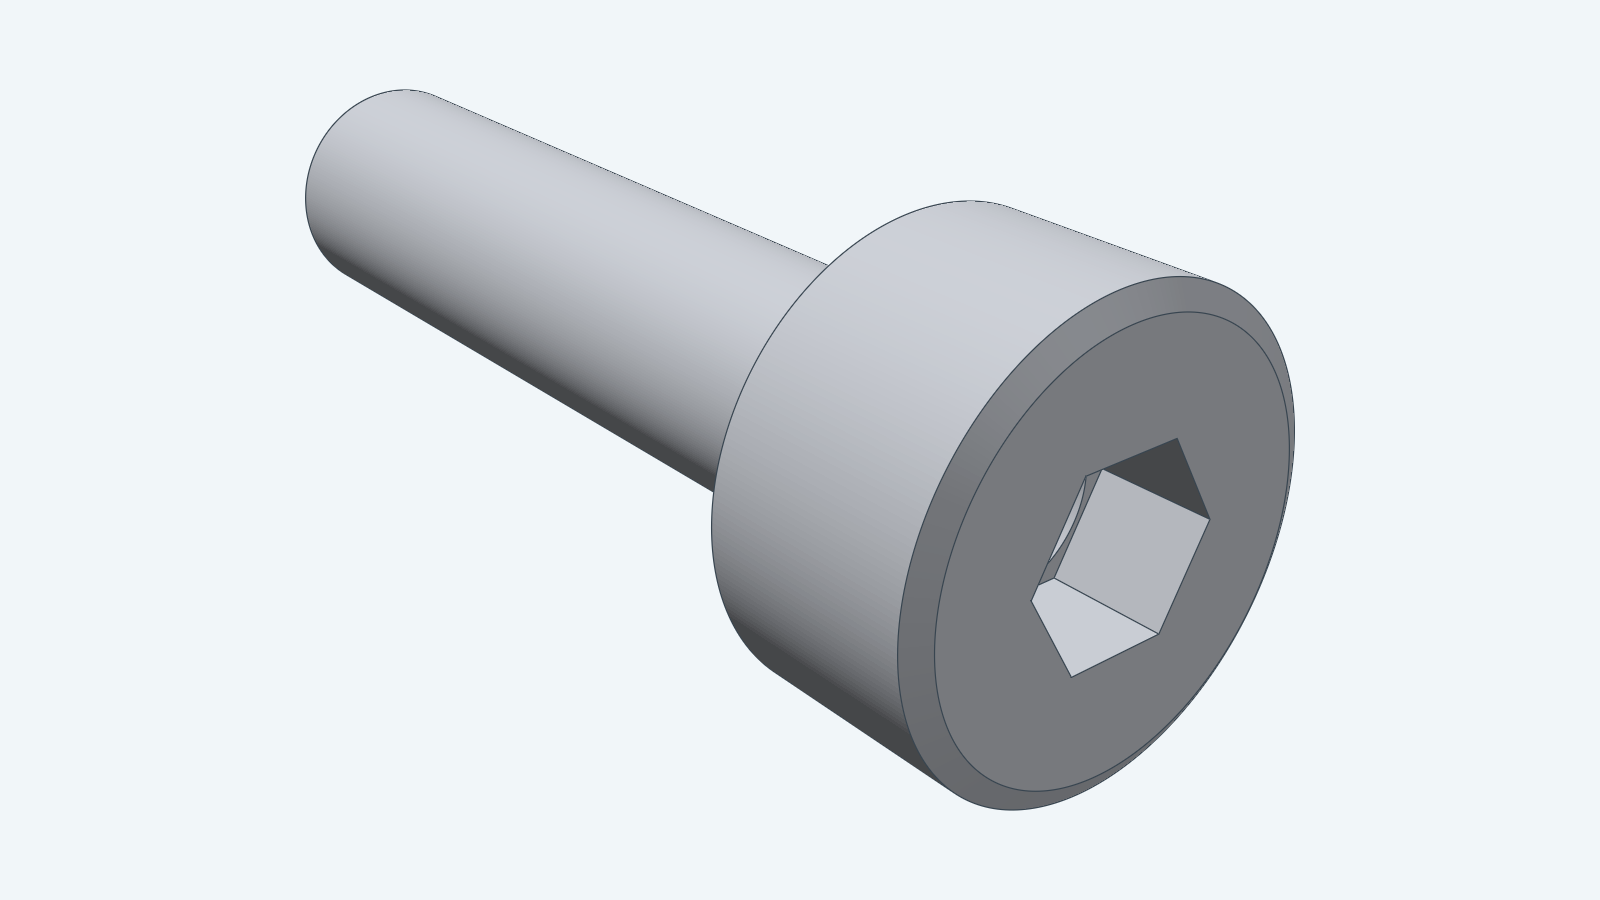
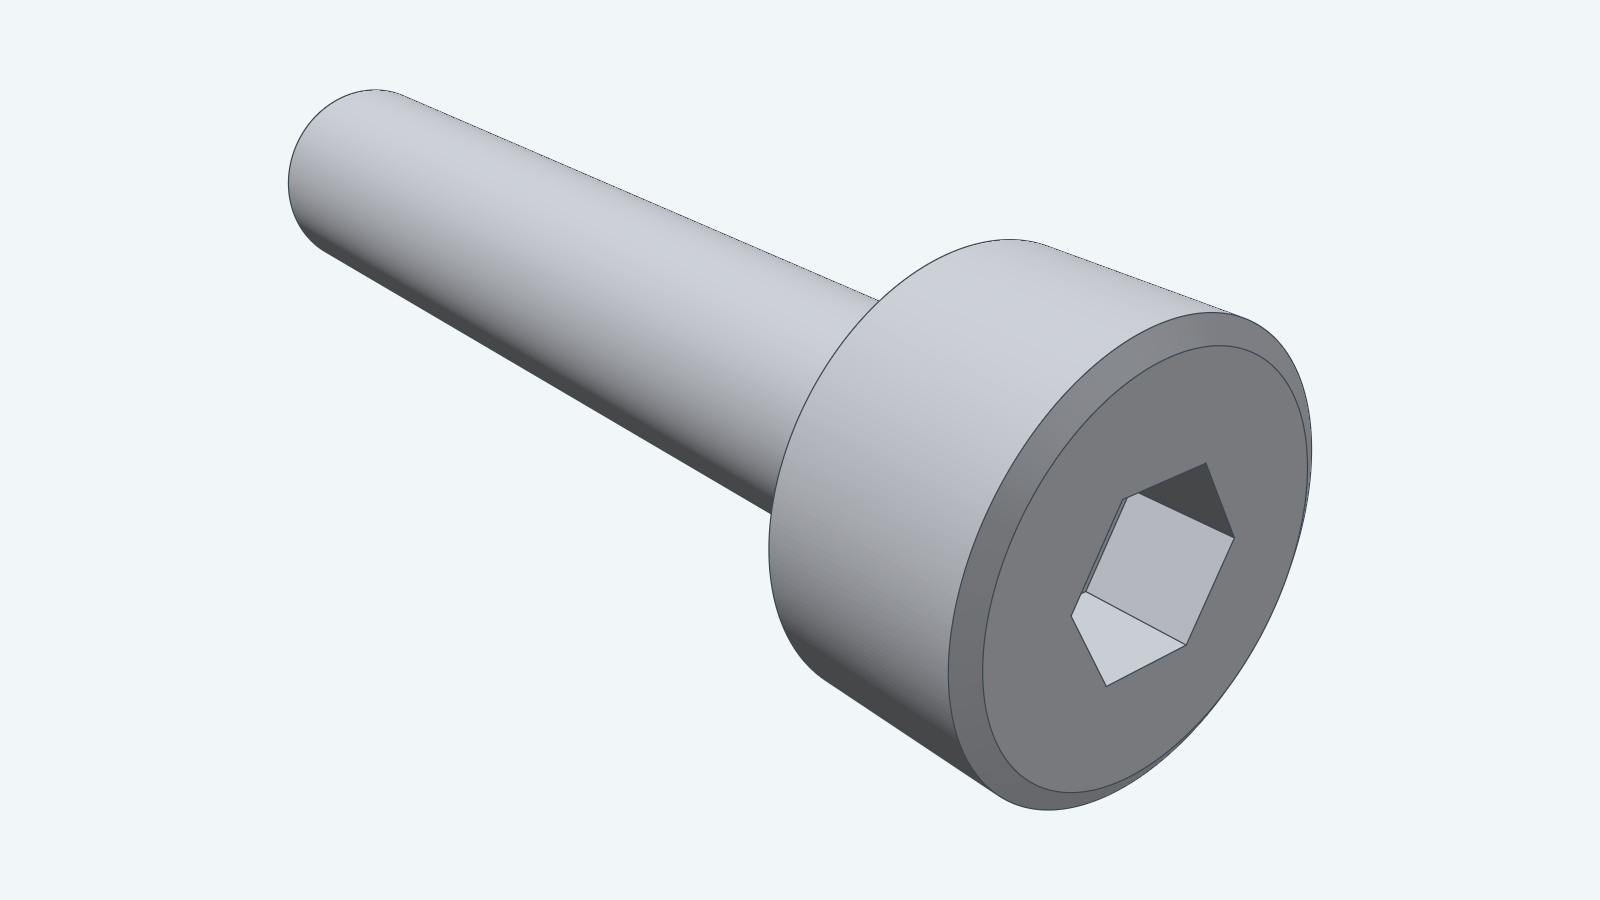
limit M2 bolt to standard lengths and add views

Changed region(s): [[0.1562, 0.0933, 0.8438, 0.9022], [0.2812, 0.1244, 0.4062, 0.2178]]

diff --git a/tools/render/m2bolt.go b/tools/render/m2bolt.go
@@ -3,6 +3,7 @@ package main
 import (
 	"context"
 	"fmt"
+	"path/filepath"
 
 	"github.com/lestrrat-3d/decad"
 	"github.com/lestrrat-3d/decad-gallery/models/m2bolt"
@@ -11,26 +12,73 @@ import (
 	"github.com/lestrrat-3d/units"
 )
 
-// m2BoltHero lays the default M2x8 bolt on its side, head toward the camera, so the hex socket shows.
-func m2BoltHero(ctx context.Context) (solidlens.Scene, error) {
-	// The frame maps the bolt's +Z, from underside to head, to world +X.
-	frame, err := r3.NewFrame(r3.Vec{}, r3.Vec{Y: 1}, r3.Vec{Z: 1})
-	if err != nil {
-		return solidlens.Scene{}, fmt.Errorf("create bolt frame: %w", err)
+// m2BoltPitch is the spacing between bolts in the length comparison.
+const m2BoltPitch = 6.0
+
+var m2BoltCameras = map[string]solidlens.Camera{
+	"hero":      {Position: solidlens.Vec{X: 9, Y: -9, Z: 7}, Target: solidlens.Vec{X: -2}, Up: solidlens.Vec{Z: 1}, FOV: 35},
+	"head":      {Position: solidlens.Vec{X: 30, Y: -8, Z: 6}, Target: solidlens.Vec{}, Up: solidlens.Vec{Z: 1}, FOV: 30},
+	"side":      {Position: solidlens.Vec{X: -4, Y: -40, Z: 2}, Target: solidlens.Vec{X: -4}, Up: solidlens.Vec{Z: 1}, FOV: 20},
+	"underside": {Position: solidlens.Vec{X: -22, Y: -14, Z: -10}, Target: solidlens.Vec{X: -2}, Up: solidlens.Vec{Z: 1}, FOV: 35},
+	"lengths":   {Position: solidlens.Vec{X: -6, Y: 8, Z: 45}, Target: solidlens.Vec{X: -6, Y: 12}, Up: solidlens.Vec{Y: 1}, FOV: 30},
+}
+
+func m2BoltHero(ctx context.Context) (solidlens.Scene, error) { return m2BoltView(ctx, "hero") }
+
+func m2BoltViewScene(name string) func(context.Context) (solidlens.Scene, error) {
+	return func(ctx context.Context) (solidlens.Scene, error) { return m2BoltView(ctx, name) }
+}
+
+// m2BoltView builds one view. Bolts lie on their sides along X with the head toward +X.
+// Every view but "lengths" shows the default length.
+func m2BoltView(ctx context.Context, name string) (solidlens.Scene, error) {
+	lengths := []float64{m2bolt.DefaultParams().Length}
+	if name == "lengths" {
+		lengths = m2bolt.StandardLengths()
 	}
-	params := m2bolt.DefaultParams()
-	params.Placement = &frame
-	m, err := m2bolt.Build(ctx, decad.New(), params)
-	if err != nil {
-		return solidlens.Scene{}, fmt.Errorf("build M2 bolt: %w", err)
+	doc := decad.New()
+	var models []solidlens.Model
+	for i, length := range lengths {
+		// The frame maps the bolt's +Z, from underside to head, to world +X.
+		frame, err := r3.NewFrame(r3.Vec{Y: float64(i) * m2BoltPitch}, r3.Vec{Y: 1}, r3.Vec{Z: 1})
+		if err != nil {
+			return solidlens.Scene{}, fmt.Errorf("create bolt frame: %w", err)
+		}
+		m, err := m2bolt.Build(ctx, doc, m2bolt.Params{Length: length, Placement: &frame})
+		if err != nil {
+			return solidlens.Scene{}, fmt.Errorf("build M2x%g bolt: %w", length, err)
+		}
+		mesh, err := m.Body.Tessellate(ctx, units.Millimeters(.01), decad.WithVerification(decad.VerifyAll))
+		if err != nil {
+			return solidlens.Scene{}, fmt.Errorf("mesh M2x%g bolt: %w", length, err)
+		}
+		models = append(models, solidlens.Model{Mesh: mesh, Material: solidlens.Matte(solidlens.RGB(.5, .52, .56)),
+			Edges: solidlens.Edges{Enabled: true, Color: solidlens.RGB(.04, .06, .08), Width: 1.2}})
 	}
-	mesh, err := m.Body.Tessellate(ctx, units.Millimeters(.01), decad.WithVerification(decad.VerifyAll))
-	if err != nil {
-		return solidlens.Scene{}, fmt.Errorf("mesh M2 bolt: %w", err)
+	camera, ok := m2BoltCameras[name]
+	if !ok {
+		return solidlens.Scene{}, fmt.Errorf("unknown M2 bolt view %q", name)
 	}
-	models := []solidlens.Model{{Mesh: mesh, Material: solidlens.Matte(solidlens.RGB(.5, .52, .56)),
-		Edges: solidlens.Edges{Enabled: true, Color: solidlens.RGB(.04, .06, .08), Width: 1.2}}}
-	camera := solidlens.Camera{Position: solidlens.Vec{X: 9, Y: -9, Z: 7},
-		Target: solidlens.Vec{X: -2}, Up: solidlens.Vec{Z: 1}, FOV: 35}
 	return bevelScene(fitCamera(camera, models, 16.0/9, .1), models), nil
+}
+
+// renderM2BoltReadme writes the index image and every README view.
+func renderM2BoltReadme(ctx context.Context, outputDir string) error {
+	for _, shot := range []struct {
+		view, file    string
+		width, height int
+	}{
+		{"hero", "hero.png", 1600, 900}, {"hero", "index.png", 480, 270},
+		{"head", "head.png", 1600, 900}, {"side", "side.png", 1600, 900},
+		{"underside", "underside.png", 1600, 900}, {"lengths", "lengths.png", 1600, 900},
+	} {
+		scene, err := m2BoltView(ctx, shot.view)
+		if err != nil {
+			return err
+		}
+		if err := renderPNG(ctx, filepath.Join(outputDir, shot.file), scene, shot.width, shot.height); err != nil {
+			return err
+		}
+	}
+	return nil
 }

diff --git a/models/m2bolt/m2bolt_test.go b/models/m2bolt/m2bolt_test.go
@@ -65,12 +65,12 @@ func TestM2BoltDefault(t *testing.T) {
 	tol := box.Bound.Base() + 1e-8
 	require.InDelta(t, -m2bolt.HeadDiameter/2, box.Min.X, tol)
 	require.InDelta(t, m2bolt.HeadDiameter/2, box.Max.X, tol)
-	require.InDelta(t, -8, box.Min.Z, tol)
+	require.InDelta(t, -10, box.Min.Z, tol)
 	require.InDelta(t, m2bolt.HeadHeight, box.Max.Z, tol)
 
 	volume, err := m.Body.Volume()
 	require.NoError(t, err)
-	require.InDelta(t, expectedVolume(8), volume.Value.Base(), volume.Bound.Base()+0.01)
+	require.InDelta(t, expectedVolume(10), volume.Value.Base(), volume.Bound.Base()+0.01)
 
 	counts := map[decad.SurfaceKind]int{}
 	for _, face := range m.Body.Faces() {
@@ -92,7 +92,7 @@ func TestM2BoltDefault(t *testing.T) {
 }
 
 func TestM2BoltLengths(t *testing.T) {
-	for _, length := range []float64{m2bolt.MinLength, 5, 12.5, 30, m2bolt.MaxLength} {
+	for _, length := range m2bolt.StandardLengths() {
 		m, err := m2bolt.Build(t.Context(), decad.New(), m2bolt.Params{Length: length})
 		require.NoError(t, err, "length %g", length)
 		box, err := m.Body.Bounds()
@@ -110,16 +110,16 @@ func TestM2BoltPlacement(t *testing.T) {
 	doc := decad.New()
 	first, err := m2bolt.Build(t.Context(), doc, m2bolt.DefaultParams())
 	require.NoError(t, err)
-	// +Z of the bolt frame maps to world +X: the head sits at x in [10, 12] and the shank runs to x = 2.
+	// +Z of the bolt frame maps to world +X: the head sits at x in [10, 12] and the shank runs to x = 0.
 	frame, err := r3.NewFrame(r3.NewVec(10, 5, 0), r3.NewVec(0, 1, 0), r3.NewVec(0, 0, 1))
 	require.NoError(t, err)
-	placed, err := m2bolt.Build(t.Context(), doc, m2bolt.Params{Length: 8, Placement: &frame})
+	placed, err := m2bolt.Build(t.Context(), doc, m2bolt.Params{Length: 10, Placement: &frame})
 	require.NoError(t, err)
 	require.Equal(t, 2, len(doc.Bodies()))
 	box, err := placed.Body.Bounds()
 	require.NoError(t, err)
 	tol := box.Bound.Base() + 1e-8
-	require.InDelta(t, 2, box.Min.X, tol)
+	require.InDelta(t, 0, box.Min.X, tol)
 	require.InDelta(t, 12, box.Max.X, tol)
 	require.InDelta(t, 5-1.9, box.Min.Y, tol)
 	require.InDelta(t, 5+1.9, box.Max.Y, tol)
@@ -135,11 +135,12 @@ func TestM2BoltRejectsInvalidInputs(t *testing.T) {
 	}{
 		{"zero", m2bolt.Params{}},
 		{"negative", m2bolt.Params{Length: -8}},
-		{"too-short", m2bolt.Params{Length: m2bolt.MinLength - .1}},
-		{"too-long", m2bolt.Params{Length: m2bolt.MaxLength + .1}},
+		{"between-standard-lengths", m2bolt.Params{Length: 8}},
+		{"too-short", m2bolt.Params{Length: 5.9}},
+		{"too-long", m2bolt.Params{Length: 25.1}},
 		{"nan", m2bolt.Params{Length: math.NaN()}},
 		{"inf", m2bolt.Params{Length: math.Inf(1)}},
-		{"invalid-frame", m2bolt.Params{Length: 8, Placement: &r3.Frame{}}},
+		{"invalid-frame", m2bolt.Params{Length: 10, Placement: &r3.Frame{}}},
 	} {
 		t.Run(item.name, func(t *testing.T) {
 			doc := decad.New()

diff --git a/models/m2bolt/m2bolt.go b/models/m2bolt/m2bolt.go
@@ -5,6 +5,7 @@ import (
 	"context"
 	"fmt"
 	"math"
+	"slices"
 
 	"github.com/lestrrat-3d/decad"
 	"github.com/lestrrat-3d/decad-gallery/internal/sketchcheck"
@@ -39,16 +40,17 @@ const (
 	DrillPointBaseRadius = 0.7
 	// PilotDepth is how far the round pilot well runs below the socket floor before the drill point starts.
 	PilotDepth = 0.1
-	// MinLength is the shortest accepted shank length.
-	MinLength = 3.0
-	// MaxLength is the longest accepted shank length.
-	MaxLength = 100.0
 
 	// socketCutterRise is how far the socket cutter extends above the head's top face.
 	socketCutterRise = 0.5
 )
 
-// Params specifies the bolt. Length is the nominal length l in millimeters, measured from the
+// StandardLengths returns the nominal lengths in millimeters that Build accepts, in ascending order.
+func StandardLengths() []float64 {
+	return []float64{6, 10, 16, 18, 20, 25}
+}
+
+// Params specifies the bolt. Length is the nominal length l in millimeters, one of StandardLengths, measured from the
 // underside of the head to the tip. A nil Placement selects the local frame, whose origin is the
 // center of the head's underside and whose +Z points from the underside to the head. The shank
 // extends along -Z.
@@ -57,18 +59,18 @@ type Params struct {
 	Placement *r3.Frame
 }
 
-// DefaultParams returns an M2x8 bolt.
+// DefaultParams returns an M2x10 bolt.
 func DefaultParams() Params {
-	return Params{Length: 8}
+	return Params{Length: 10}
 }
 
-// Validate rejects a nonfinite Length, one outside [MinLength, MaxLength], and an invalid Placement.
+// Validate rejects a nonfinite Length, one that is not a standard length, and an invalid Placement.
 func (p Params) Validate() error {
 	if math.IsNaN(p.Length) || math.IsInf(p.Length, 0) {
 		return fmt.Errorf("m2bolt: Length must be finite")
 	}
-	if p.Length < MinLength || p.Length > MaxLength {
-		return fmt.Errorf("m2bolt: Length must be between %g and %g mm", MinLength, MaxLength)
+	if !slices.Contains(StandardLengths(), p.Length) {
+		return fmt.Errorf("m2bolt: Length must be one of %v mm", StandardLengths())
 	}
 	if p.Placement != nil && !p.Placement.IsValid() {
 		return fmt.Errorf("m2bolt: Placement must be a valid frame")

diff --git a/tools/render/main.go b/tools/render/main.go
@@ -22,6 +22,10 @@ var presets = map[string]preset{
 	"ballbearing/hero":        {width: 1600, height: 900, scene: bearing608Hero},
 	"ballbearing/605zz":       {width: 1600, height: 900, scene: bearing605Hero},
 	"m2bolt/hero":             {width: 1600, height: 900, scene: m2BoltHero},
+	"m2bolt/head":             {width: 1600, height: 900, scene: m2BoltViewScene("head")},
+	"m2bolt/side":             {width: 1600, height: 900, scene: m2BoltViewScene("side")},
+	"m2bolt/underside":        {width: 1600, height: 900, scene: m2BoltViewScene("underside")},
+	"m2bolt/lengths":          {width: 1600, height: 900, scene: m2BoltViewScene("lengths")},
 	"screwgear/hero":          {width: 1600, height: 900, scene: screwGearView("hero")},
 	"screwgear/top":           {width: 1600, height: 900, scene: screwGearView("top")},
 	"screwgear/low":           {width: 1600, height: 900, scene: screwGearView("low")},
@@ -124,6 +128,9 @@ func renderReadme(ctx context.Context, model, outputDir string) error {
 	}
 	if model == "screwgear" {
 		return renderScrewGearReadme(ctx, outputDir)
+	}
+	if model == "m2bolt" {
+		return renderM2BoltReadme(ctx, outputDir)
 	}
 	if model == "ballbearing" {
 		return renderBearingReadme(ctx, outputDir)

diff --git a/tools/render/m2bolt_test.go b/tools/render/m2bolt_test.go
@@ -11,8 +11,15 @@ import (
 )
 
 func TestM2BoltRendering(t *testing.T) {
-	output := filepath.Join(t.TempDir(), "hero.png")
-	cmd := exec.CommandContext(t.Context(), "go", "run", ".", "-model", "m2bolt", "-shot", "hero",
+	for _, shot := range []string{"hero", "head", "side", "underside", "lengths"} {
+		t.Run(shot, func(t *testing.T) { requireM2BoltShot(t, shot) })
+	}
+}
+
+func requireM2BoltShot(t *testing.T, shot string) {
+	t.Helper()
+	output := filepath.Join(t.TempDir(), shot+".png")
+	cmd := exec.CommandContext(t.Context(), "go", "run", ".", "-model", "m2bolt", "-shot", shot,
 		"-out", output, "-width", "160", "-height", "90")
 	result, err := cmd.CombinedOutput()
 	require.NoError(t, err, "%s", result)

diff --git a/models/m2bolt/instructions.md b/models/m2bolt/instructions.md
@@ -20,7 +20,7 @@ All dimensions are in millimeters.
 | `r` | underhead fillet radius | 0.1 |
 | `u` | radial and axial size of the tip chamfer | 0.25 |
 | (118°) | included angle of the drill point under the socket | 118° |
-| `l` | length, underside of the head to the tip | caller's choice, default 8 |
+| `l` | length, underside of the head to the tip | 6, 10, 16, 18, 20 or 25; default 10 |
 
 The thread is not modeled. The shank is a plain cylinder of the nominal diameter `ds`. The model gives
 the screw's envelope for fitting parts and holes; it is not manufacturing geometry, and it does not
@@ -32,9 +32,9 @@ Package: `models/m2bolt`.
 Expose `Params` with `Length float64` in millimeters and `Placement *r3.Frame`.
 A nil Placement selects the local frame: the origin is the center of the head's underside, the head lies
 along +Z and the shank along -Z. A supplied Placement maps that local frame onto it.
-Expose `DefaultParams() Params`, returning Length 8 and nil Placement.
+Expose `DefaultParams() Params`, returning Length 10 and nil Placement.
 Expose `Params.Validate() error`.
-Expose the dimensions above as exported constants, plus `MinLength` (3), `MaxLength` (100),
+Expose the dimensions above as exported constants, plus `StandardLengths()`,
 `PilotDepth` (0.1) and `DrillPointBaseRadius` (0.7), documented in the code.
 Expose `Build(ctx context.Context, doc *decad.Document, p Params) (*Model, error)`.
 `Model` exposes `Body *decad.Body` and the sketches `Profile` and `Socket`.
@@ -42,8 +42,8 @@ Build adds exactly one body to doc.
 
 ## Validation
 
-Reject nil ctx and doc at the public boundary. Reject a nonfinite Length, a Length outside
-`[MinLength, MaxLength]` and an invalid Placement. Validate and check ctx.Err before adding geometry.
+Reject nil ctx and doc at the public boundary. Reject a nonfinite Length, a Length that is not one of
+`StandardLengths()` and an invalid Placement. Validate and check ctx.Err before adding geometry.
 The zero Params value is invalid.
 
 ## Geometry and constraints
@@ -69,6 +69,6 @@ rest is held by horizontal, vertical and angle constraints and by dimensions bet
 
 Check the default build's bounds, its volume against an independent integration of the section, its face
 kinds, `VerifyAll` tessellation and the full constraint of both sketches.
-Check lengths from `MinLength` to `MaxLength`, a placed bolt, invalid inputs and the unchanged document.
+Check every standard length, a length between them, a placed bolt, invalid inputs and the unchanged document.
 Register `m2bolt/hero` in `tools/render`, with a renderer integration test.
 Add the model to `models/README.md` and run `scripts/check_repository.py`.

diff --git a/models/m2bolt/README.md b/models/m2bolt/README.md
@@ -1,17 +1,37 @@
 # M2 socket head cap screw
 
-![M2x8 socket head cap screw](images/hero.png)
+![M2x10 socket head cap screw](images/hero.png)
 
-This model is an M2 socket head cap screw of any length from 3 to 100 mm. It follows the ISO 4762
-dimension drawing: a 3.8 mm head with a chamfered top edge, a 1.5 mm hex socket 1 mm deep with a drill point,
-an underhead fillet, a 2 mm shank and a 45 degree chamfer at the tip.
+This model is an M2 socket head cap screw in the standard lengths 6, 10, 16, 18, 20 and 25 mm.
+It follows the ISO 4762 dimension drawing: a 3.8 mm head with a chamfered top edge, a 1.5 mm hex socket
+1 mm deep with a drill point, an underhead fillet, a 2 mm shank and a 45 degree chamfer at the tip.
 
 The thread is not modeled. The shank is a plain 2 mm cylinder, so the model gives the screw's envelope for
 fitting holes and parts. It does not set thread length, tolerance or strength class.
 
-`DefaultParams` selects an M2x8 screw. `Length` sets the length from the head's underside to the tip.
-`Placement` positions the underside center and the screw axis in an assembly; the head lies along the
-frame's normal.
+`DefaultParams` selects an M2x10 screw. `Length` sets the length from the head's underside to the tip and
+must be one of `StandardLengths()`. `Placement` positions the underside center and the screw axis in an
+assembly; the head lies along the frame's normal.
+
+## Views
+
+The head end shows the hex socket and its drill point.
+
+![Head end of the M2x10 screw](images/head.png)
+
+The side view shows the head chamfer, the underhead fillet and the tip chamfer.
+
+![Side view of the M2x10 screw](images/side.png)
+
+The tip end shows the flat tip, its chamfer and the underside of the head.
+
+![Tip end and head underside of the M2x10 screw](images/underside.png)
+
+## Lengths
+
+All six lengths, from M2x6 at the bottom to M2x25 at the top.
+
+![M2 screws in lengths 6, 10, 16, 18, 20 and 25 mm](images/lengths.png)
 
 The [developer guide](../../docs/models/m2bolt.md) documents construction and checks.
 The [instructions](instructions.md) own the dimensions; the [steps](steps.md) map them to Decad.

diff --git a/docs/models/m2bolt.md b/docs/models/m2bolt.md
@@ -4,7 +4,7 @@ The model in `models/m2bolt` constructs an M2 socket head cap screw with a confi
 
 ## Construction and API
 
-`Params` exposes `Length` and an optional `Placement` frame. `DefaultParams()` returns length 8.
+`Params` exposes `Length` and an optional `Placement` frame. `DefaultParams()` returns length 10. `Length` must be one of `StandardLengths()`: 6, 10, 16, 18, 20 or 25 mm.
 The other dimensions are exported constants taken from ISO 4762 and JIS B 1176.
 The local frame puts the center of the head's underside at the origin, the head along +Z and the shank along -Z.
 
@@ -22,12 +22,14 @@ The thread is not modeled, so the shank is the nominal 2 mm diameter along its w
 
 ```sh
 go test ./models/m2bolt
-go -C tools/render run . -model m2bolt -shot hero -out ../../models/m2bolt/images/hero.png
 go -C tools/render run . -model m2bolt -shot readme -out ../../models/m2bolt/images
 go -C tools/render test -run '^TestM2BoltRendering$'
 ```
 
+The readme shot writes `hero.png`, `index.png`, `head.png`, `side.png`, `underside.png` and `lengths.png`.
+`-shot` also takes `hero`, `head`, `side`, `underside` or `lengths` alone.
+
 ## Verification
 
 Tests check the default bolt's bounds, volume (against an integral of the section), face kinds, mesh
-verification and sketches. They also check lengths across the range, placement and invalid inputs.
+verification and sketches. They also check every standard length, placement and invalid inputs.

diff --git a/docs/rendering.md b/docs/rendering.md
@@ -28,7 +28,9 @@ go -C tools/render run . -model ballbearing -shot readme -out ../../models/ballb
 `ballbearing/605zz` renders the 5 × 14 × 5 mm 605ZZ envelope through the same builder.
 The readme shot also writes `605zz.png` at 1600 × 900.
 
-`m2bolt/hero` renders the default M2x8 bolt lying on its side with its head toward the camera.
+`m2bolt/hero` renders the default M2x10 bolt lying on its side with its head toward the camera.
+The `head`, `side`, `underside` and `lengths` presets show other angles and all six standard lengths.
+The `readme` shot writes all of them.
 
 From the repository root, regenerate the spur gear hero image with:
 
